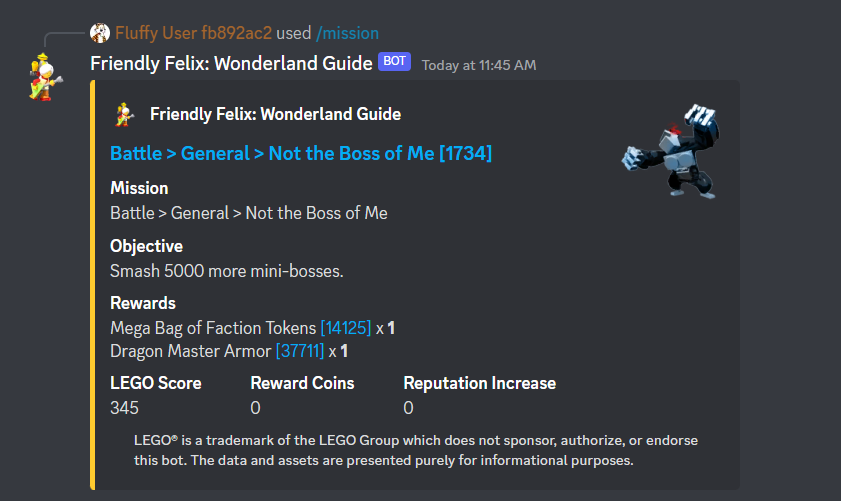
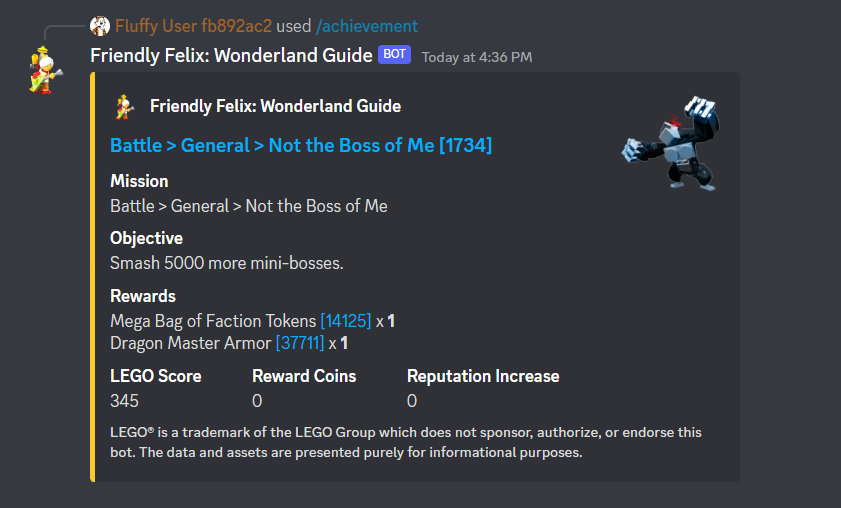
updated readme with achievement

diff --git a/src/slashCommands/activity.ts b/src/slashCommands/activity.ts
@@ -7,7 +7,7 @@ import { SlashCommand } from '../types/SlashCommand';
 
 export default {
   name: 'activity',
-  description: 'View all activitys given from an activity!',
+  description: 'View all rewards given from an activity!',
   options: [
     {
       name: 'activity',

diff --git a/src/slashCommands/achievement.ts b/src/slashCommands/achievement.ts
@@ -7,7 +7,7 @@ import { SlashCommand } from '../types/SlashCommand';
 
 export default {
   name: 'achievement',
-  description: 'View the stats of a achievement!',
+  description: 'View the stats of an achievement!',
   options: [
     {
       name: 'achievement',

diff --git a/README.md b/README.md
@@ -119,7 +119,13 @@ The blue hyper-linked text will take the user to the corresponding page of hoste
 
 ### `/activity`
 
-View all activitys given from an activity!
+View the stats of an achievement!
+
+![/achievement](screenshots/achievement.png)
+
+### `/activity`
+
+View all rewards given from an activity!
 
 ![/activity](screenshots/activity.png)
 
